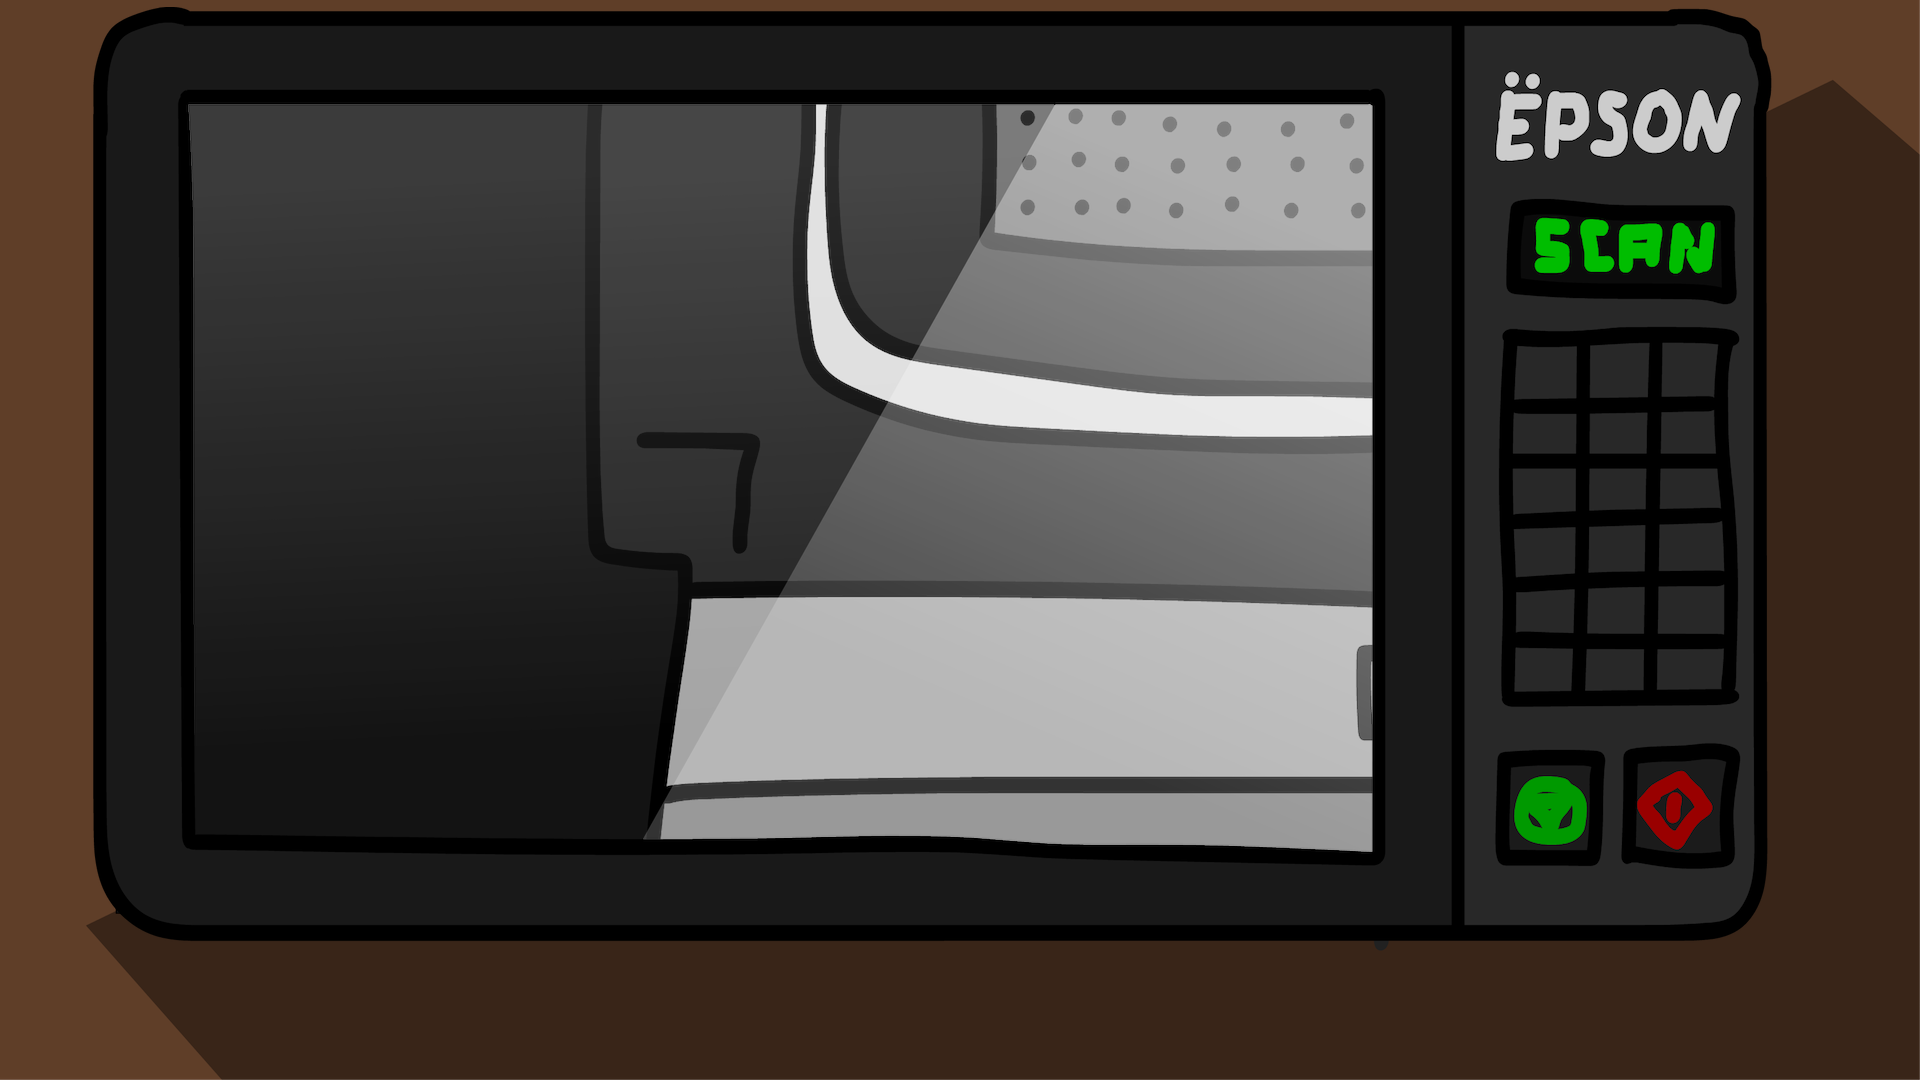
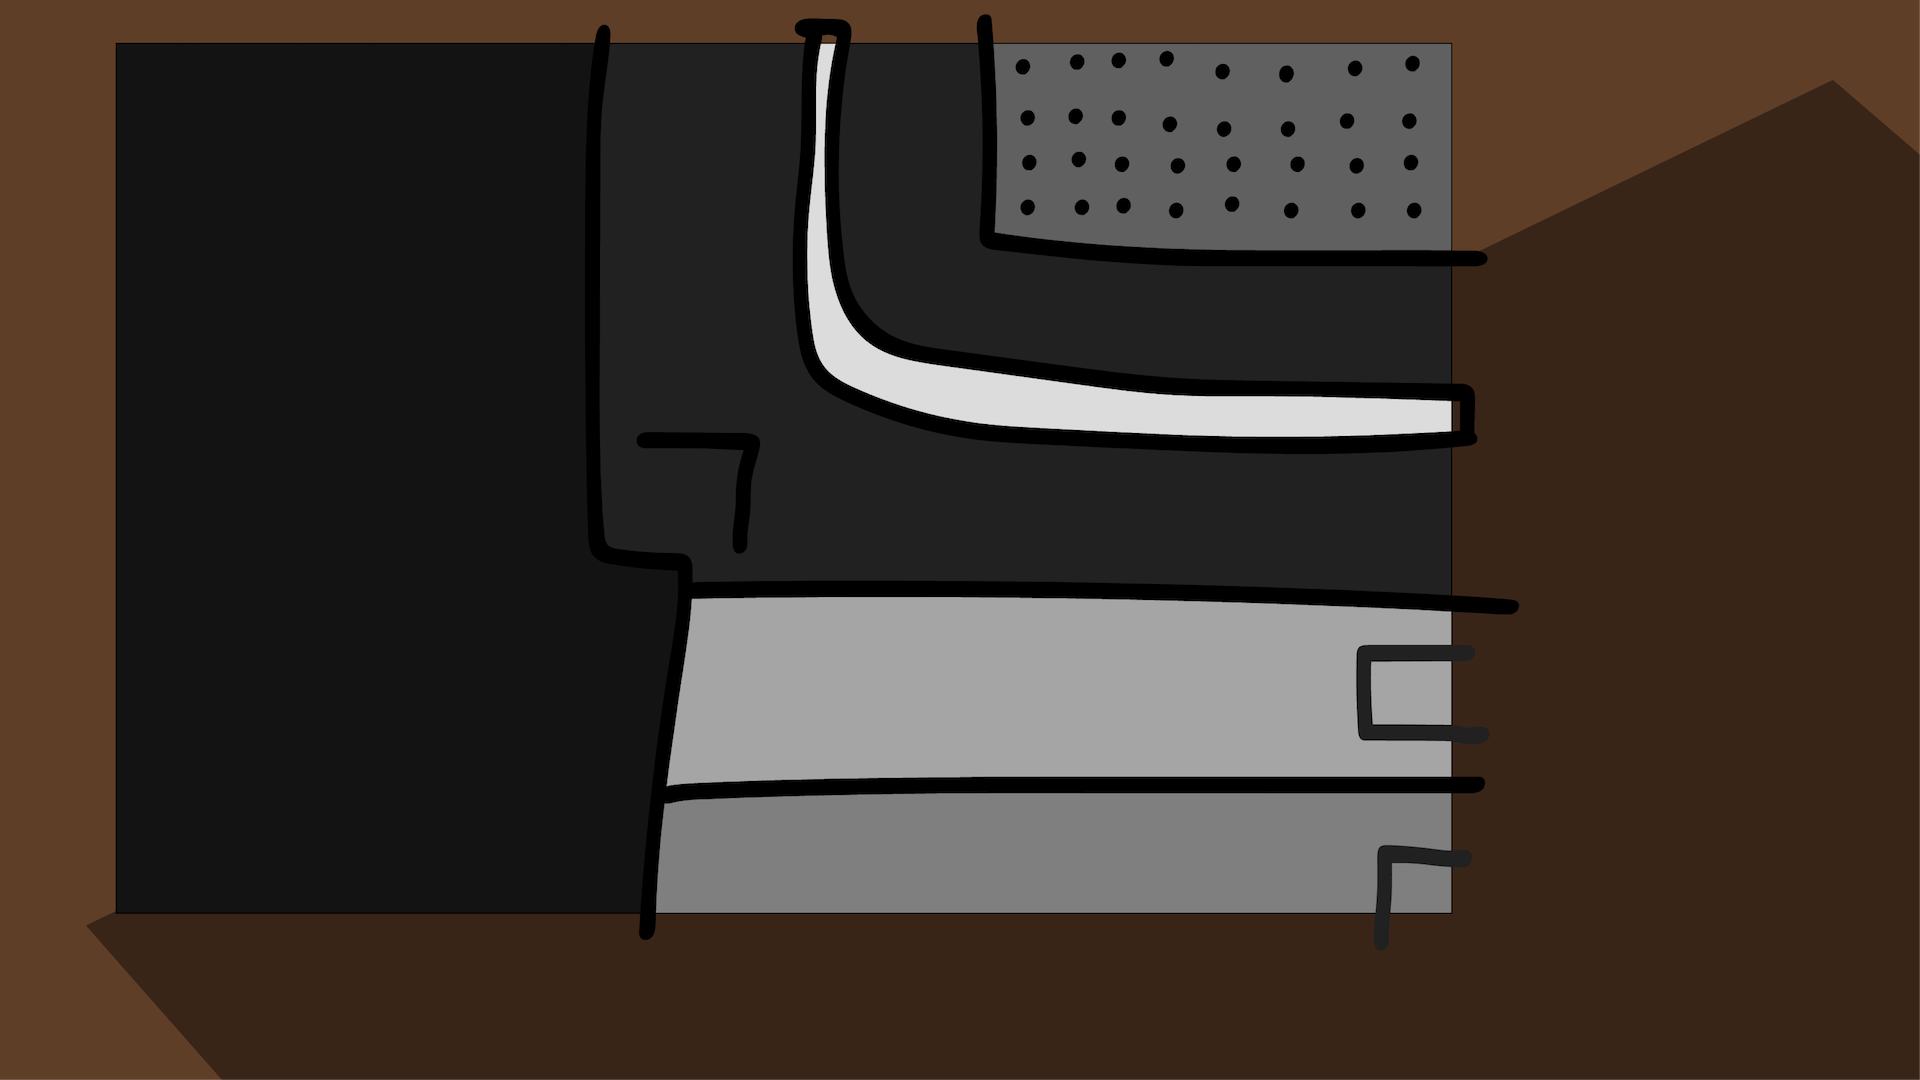
Добавил действие по кнопке скана

diff --git a/frontend/src/components/Game/states/Scanner.js b/frontend/src/components/Game/states/Scanner.js
@@ -1,15 +1,19 @@
 import Phaser from 'phaser';
+import {smartSetHeight} from '../utils';
+
 
 export default class Scanner extends Phaser.State {
     init() {
         this.activeDocument = null;
-
+        this.isScanning = false;
     }
 
     preload() {
         this.load.image('bg', './assets/images/1-3 (printer)/bg-1-3.png');
+        this.load.image('scanner', './assets/images/1-3 (printer)/epson.png');
         this.load.image('start-active', './assets/images/1-3 (printer)/start-active.png');
         this.load.image('start-passive', './assets/images/1-3 (printer)/start-passive.png');
+        this.load.image('scanline', './assets/images/1-3 (printer)/scanline.png');
 
         this.load.image('eng-big', './assets/images/1-3 (printer)/eng-big.png');
         this.load.image('photos-big', './assets/images/1-3 (printer)/photos-big.png');
@@ -29,13 +33,21 @@ export default class Scanner extends Phaser.State {
         bg.height = this.game.width * bg.height / bg.width;
         bg.width = this.game.width;
 
+        let scanline = this.game.add.image(143, 40, 'scanline');
+        smartSetHeight(scanline, 890);
+        this.scanline = scanline;
+
+        let epson = this.game.add.image(52, 15, 'scanner');
+        smartSetHeight(epson, 1020);
+
 
         let startButton = this.game.add.image(1500, 750, 'start-active');
+        smartSetHeight(startButton, 117);
         startButton.inputEnabled = true;
         startButton.input.useHandCursor = true;
-        startButton.aspectRatio = startButton.width / startButton.height;
-        startButton.height = 117;
-        startButton.width = startButton.aspectRatio * startButton.height;
+        startButton.events.onInputDown.add(this.handleStartButtonClick, this);
+        this.startButton = startButton;
+
 
         let eng = this.game.add.image(0, 940, 'eng-small');
         let photos = this.game.add.image(0, 940, 'photos-small');
@@ -43,30 +55,20 @@ export default class Scanner extends Phaser.State {
         let war = this.game.add.image(0, 940, 'war-small');
         let zno = this.game.add.image(0, 940, 'zno-small');
 
-        let group = this.game.add.group();
-
-        //group.align(1, 5, 100, 100, Phaser.CENTER);
-
-        let arr = [eng, photos, pass, war, zno];
+        let docs = [eng, photos, pass, war, zno];
+        this.docs = docs;
         let x = 50;
-        for (let i = 0; i < arr.length; i++) {
-            arr[i].x = arr[i].originalX = x;
-            x += arr[i].width + 10;
+        for (let i = 0; i < docs.length; i++) {
+            docs[i].x = docs[i].originalX = x;
+            x += docs[i].width + 10;
         }
 
-        group.addMultiple(arr);
-        group.forEach((e) => {
-            console.log(arguments);
+        docs.forEach((e) => {
             e.inputEnabled = true;
             e.input.useHandCursor = true;
             e.input.enableDrag();
-            e.events.onDragStart.add(this.handleDragStart, this)
-
+            e.events.onDragStart.add(this.handleDragStart, this);
         });
-
-        this.game.physics.arcade.overlap(eng, zno, () => console.log('overlap'), null, this);
-
-
 
         this.stage.disableVisibilityChange = true;
 
@@ -74,7 +76,6 @@ export default class Scanner extends Phaser.State {
     }
 
     handleDragStart(document) {
-        console.log(document);
         if (this.activeDocument !== document) {
             if (this.activeDocument !== null) {
                 this.activeDocument.loadTexture(`${this.activeDocument.key.split('-')[0]}-small`);
@@ -87,7 +88,24 @@ export default class Scanner extends Phaser.State {
         }
     }
 
-    handleDragEnd() {
+    handleStartButtonClick() {
+        if (!this.isScanning) {
+            this.isScanning = true;
+            let forthTween = this.game.add.tween(this.scanline).to({
+                x: 1455,
+            }, 1000);
+            let backTween = this.game.add.tween(this.scanline).to({
+                x: this.scanline.x,
+            }, 500);
+            backTween.onComplete.add(this.handleScanEnd, this);
+
+            forthTween.chain(backTween);
+            forthTween.start();
+        }
+    }
+
+    handleScanEnd() {
+        this.isScanning = false;
 
     }
 

diff --git a/frontend/src/components/Game/utils.js b/frontend/src/components/Game/utils.js
@@ -3,3 +3,16 @@ export const centerGameObjects = (objects) => {
         object.anchor.setTo(0.5);
     });
 };
+
+export function smartSetHeight(obj, height) {
+    let aspectRatio = obj.width / obj.height;
+    obj.height = height;
+    obj.width = aspectRatio * obj.height;
+}
+
+
+export function smartSetWidth(obj, width) {
+    let aspectRatio = obj.width / obj.height;
+    obj.width = width;
+    obj.height = obj.width / aspectRatio;
+}
